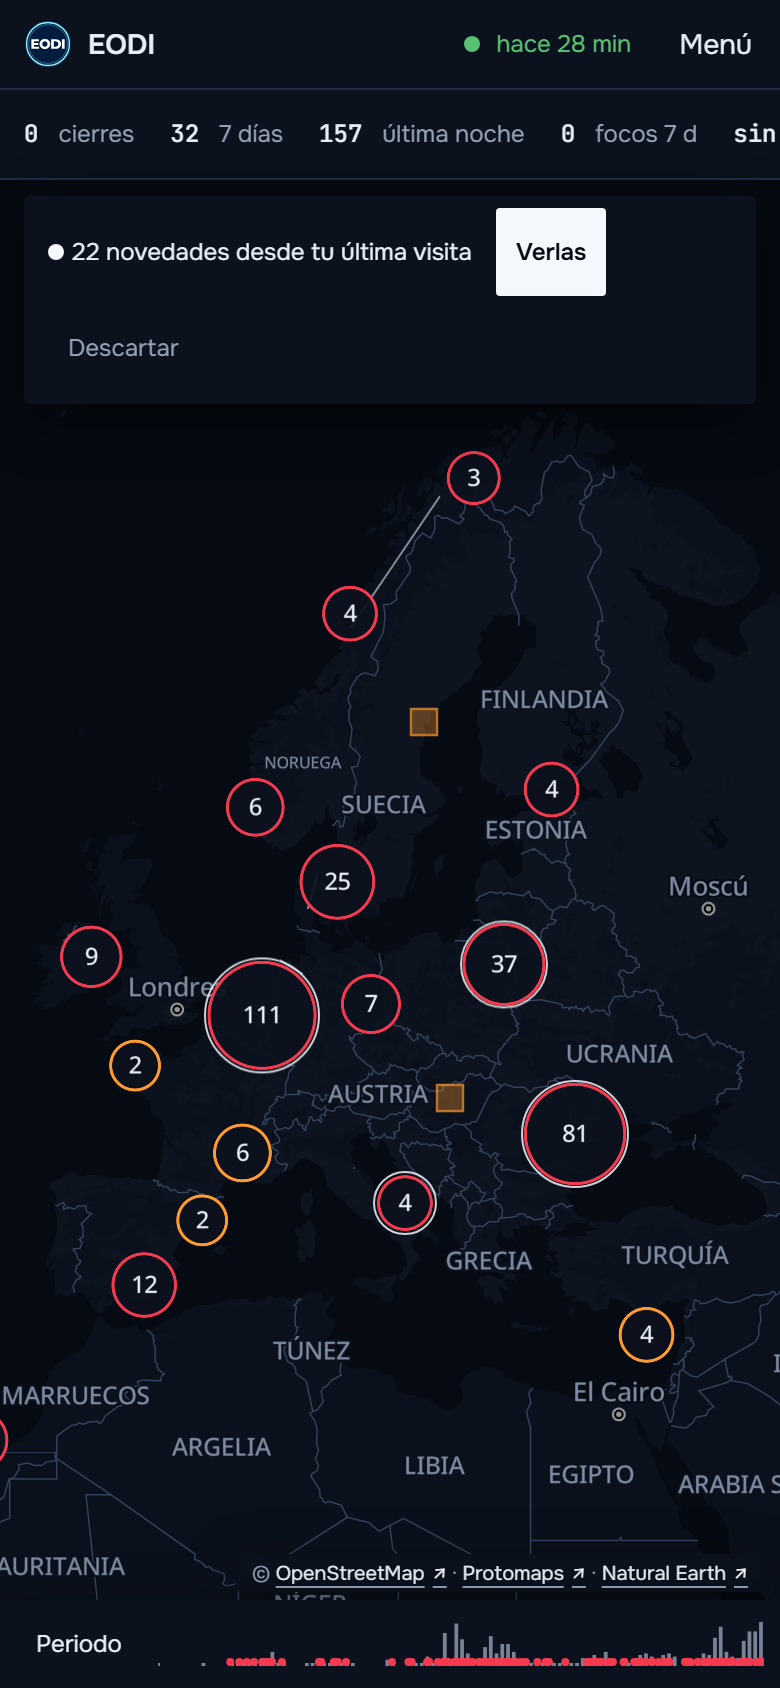
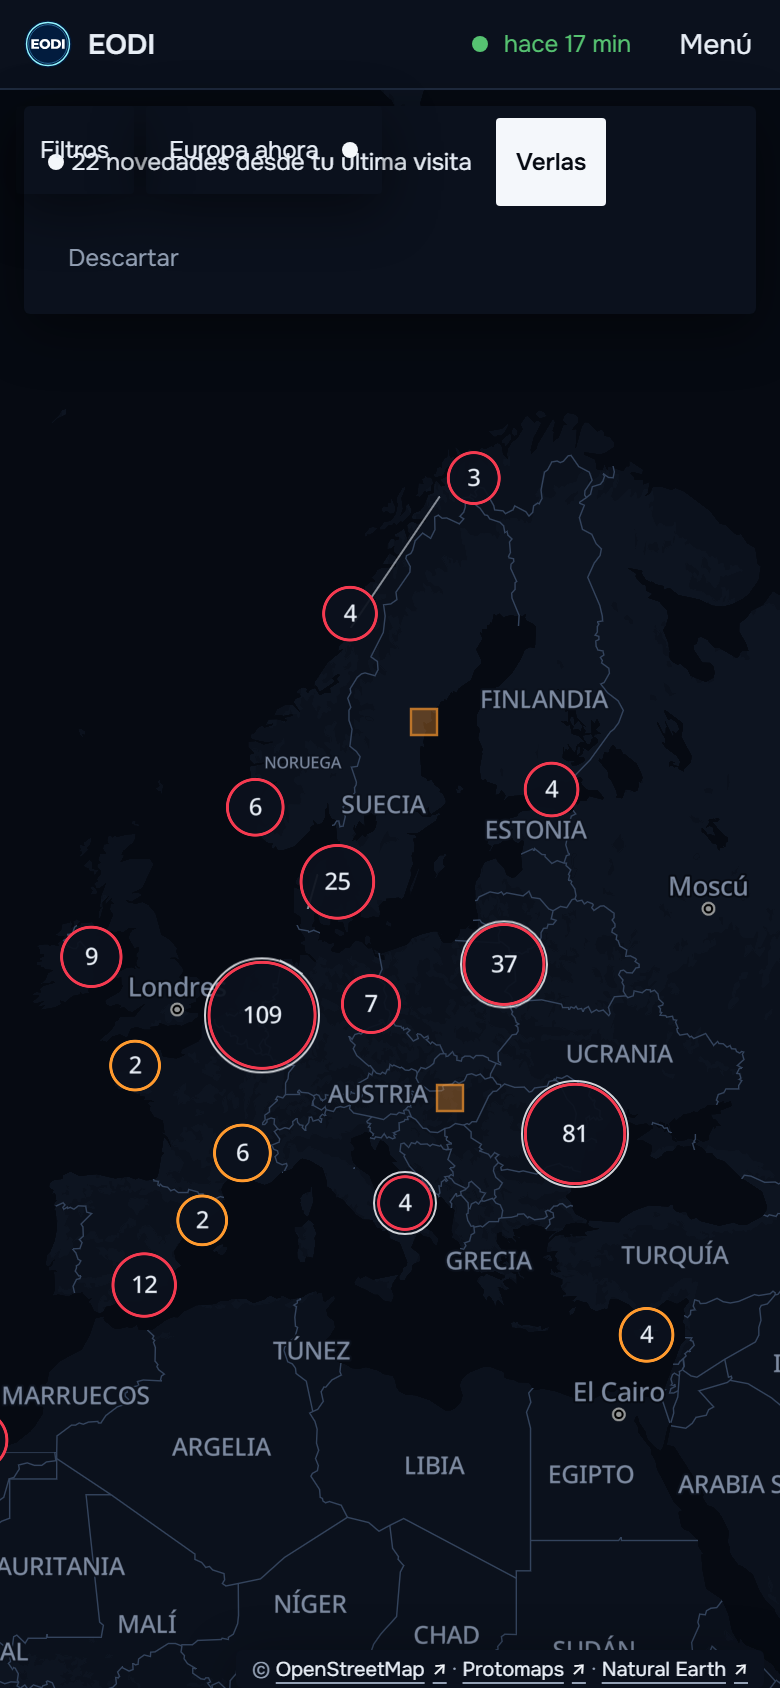
Botones del mapa con fondo y capturas de la bandera de atribuido (#73)
Los botones «Filtros» y «Europa ahora» llevan el fondo de los paneles: en el escritorio se
mezclaban con los nombres del mapa. Capturas de producción de tres atribuidos como bandera, la
leyenda y las novedades, e informe al día.

diff --git a/web/tests/botones-mapa.test.ts b/web/tests/botones-mapa.test.ts
@@ -1,0 +1,21 @@
+// Los botones sobre el mapa llevan el fondo de los paneles: sin él, «Filtros» y «Europa ahora»
+// se leían mezclados con los nombres del mapa en el escritorio.
+import { readFileSync } from "node:fs";
+import { join } from "node:path";
+
+import { describe, expect, it } from "vitest";
+
+const raiz = join(import.meta.dirname, "..", "src");
+
+describe("botones sobre el mapa", () => {
+  it("tienen fondo de panel, declarado después de .control", () => {
+    const css = readFileSync(join(raiz, "estilos.css"), "utf-8");
+    const control = css.indexOf("  .control {");
+    const boton = css.indexOf(".control.boton-mapa {");
+    expect(control).toBeGreaterThan(-1);
+    expect(boton).toBeGreaterThan(control);
+    expect(css.slice(boton, css.indexOf("}", boton))).toContain("background-color: var(--color-panel)");
+    const componente = readFileSync(join(raiz, "componentes", "BotonesMapa.tsx"), "utf-8");
+    expect(componente).toMatch(/CLASE_BOTON = "[^"]*\bboton-mapa\b/);
+  });
+});

diff --git a/web/src/estilos.css b/web/src/estilos.css
@@ -228,6 +228,12 @@
       min-width: 2.75rem !important;
     }
   }
+  /* Botones sobre el mapa: con el fondo de los paneles, para que no se mezclen con los
+     nombres del mapa (.control, que va después de .flotante, los dejaría transparentes). */
+  .control.boton-mapa {
+    background-color: var(--color-panel);
+    box-shadow: var(--shadow-panel);
+  }
   .control:hover {
     color: var(--color-texto);
     background-color: var(--color-elevado);

diff --git a/web/src/componentes/BotonesMapa.tsx b/web/src/componentes/BotonesMapa.tsx
@@ -8,7 +8,7 @@ import type { ReactNode, RefObject } from "react";
 
 import type { Textos } from "../i18n/index.ts";
 
-const CLASE_BOTON = "control flotante min-h-11 px-3 text-xs text-texto esc:min-h-8 esc:px-2.5";
+const CLASE_BOTON = "control flotante boton-mapa min-h-11 px-3 text-xs text-texto esc:min-h-8 esc:px-2.5";
 
 export function BotonFiltros({
   t,

diff --git a/docs/informe_europa_directo.md b/docs/informe_europa_directo.md
@@ -259,6 +259,10 @@ atribuido y naranja si todos son notificados. Los avisos en directo usan la mism
 (naranja posible, rojo confirmado, gris reanudado) con su propia marca de aeropuerto y sin
 pulso. El verde queda solo para los indicadores de funcionamiento de la barra de estado.
 
+**Atribuido** se dibuja como una bandera roja con su mástil, sin forma debajo: icono de 28 px
+con el pie del mástil en el punto del incidente y, en el teléfono, la marca más cercana en 44 px
+como objetivo del dedo; los grupos y los episodios unidos por línea lo tratan como al resto.
+
 **Pulso.** Solo laten los incidentes nuevos desde la última visita (los que cuenta el aviso de
 novedades) y los grupos que contienen alguno; se apagan con «Verlas», «Descartar» o al abrir el
 incidente; en la primera visita no late nada; con movimiento reducido, un anillo fijo. El pulso
@@ -270,6 +274,33 @@ token `PALETA.guerra`) muy cercano al rojo nuevo de los confirmados (1,15:1 de l
 tono): esa sesión debería moverlo a otro tono o a grises. Los impactos y sus grupos no laten,
 así que el pulso no le afecta. El cambio de nombre del token toca `src/mapa/estilo.ts`,
 `src/componentes/LineaTiempo.tsx` y `src/App.tsx`, que también edita esa sesión.
+
+## 7 ter. La pantalla es el mapa
+
+Sobre el mapa solo hay botones pequeños; lo demás se abre al pedirlo:
+
+- **Sin barra de tiempo inferior.** El periodo se elige en los filtros: últimas 24 horas, 7 días,
+  30 días, último año, todo (por defecto, como al abrir la web hasta ahora) o entre dos fechas. Con
+  un periodo distinto, el botón de filtros lo lleva escrito («Filtros · Últimos 7 días ×»; la
+  equis vuelve a todo). El mapa, la lista, las cifras y todas las capas siguen el periodo; los
+  enlaces `?ultimos=` y `?desde=…&hasta=…` lo abren, y un enlace a una ficha la abre aunque quede
+  fuera del periodo.
+- **«Europa ahora»** es un botón con desplegable (hoja inferior en el teléfono), cerrado al
+  entrar; lleva un número si hay cierres en curso y un punto si hay novedades desde la última
+  visita. Se cierra con el botón, la equis, Escape, pulsando fuera o, en el teléfono, arrastrando
+  la hoja hacia abajo; pulsar una entrada lleva a su sitio y lo cierra.
+- **Además se pliega:** la barra de filtros pasa a un botón con desplegable, el botón «Periodo»
+  de la cabecera del teléfono desaparece, y las leyendas solo salen con su capa activa y se
+  pliegan. Los botones sobre el mapa llevan el fondo de los paneles.
+
+Comprobado en producción el 3 de octubre de 2026 con `web/data/comprobar-pantalla.mjs` (escritorio
+y 390×844): 72 comprobaciones bien y 0 mal. Al entrar, el mapa llega hasta el borde inferior, sin
+ningún panel ni desplegable abierto. Las cifras de cada periodo coinciden con la lista: todo 507,
+24 horas 10, 7 días 33, 30 días 92, último año 379 y noviembre de 2025 61. Los enlaces con periodo
+y la ficha más antigua (`EODI-2024-00001`, también con `?ultimos=24h`) abren lo que deben. Con
+`web/data/capturar-estados.mjs` se comprobaron tres atribuidos en el mapa y en su ficha con el
+historial de estados (EODI-2026-00015, EODI-2026-00074 y EODI-2026-00283), la leyenda, y que
+laten 4 o 5 novedades con una visita anterior y ninguna en la primera visita.
 
 ## 8. Servidor y vigilancia
 
@@ -311,7 +342,8 @@ publicándose:
 | [`europa-escritorio-gps.png`](capturas/europa-escritorio-gps.png) | Capa de interferencia GPS del último día, con su leyenda: el rojo del Báltico, Kaliningrado, el mar Negro y el este de Turquía |
 | [`europa-escritorio-presion.png`](capturas/europa-escritorio-presion.png) | Capa de presión por país |
 | [`europa-390x844-panel.png`](capturas/europa-390x844-panel.png), [`europa-390x844-gps.png`](capturas/europa-390x844-gps.png) | Versión reducida de la franja en la cabecera del teléfono, y la capa GPS |
-| [`estados-escritorio.png`](capturas/estados-escritorio.png), [`estados-390x844.png`](capturas/estados-390x844.png) | Notificados en naranja, confirmados en rojo y atribuidos en rojo con bandera (Moldavia y Rumanía) |
+| [`estados-escritorio.png`](capturas/estados-escritorio.png), [`estados-390x844.png`](capturas/estados-390x844.png) | Notificados en naranja, confirmados en rojo y atribuidos como bandera roja (Moldavia y Rumanía) |
+| `atribuido-{1,2,3}-mapa-*.png`, `atribuido-{1,2,3}-ficha-*.png`, `leyenda-*.png` | Tres atribuidos como bandera sin forma en el mapa y en su ficha con el historial de estados, y la leyenda, en escritorio y 390×844 |
 | [`novedades-escritorio.png`](capturas/novedades-escritorio.png), [`novedades-390x844.png`](capturas/novedades-390x844.png) | Con una visita anterior de hace tres días: laten las 4 marcas con novedades |
 | [`sin-novedades-escritorio.png`](capturas/sin-novedades-escritorio.png), [`sin-novedades-390x844.png`](capturas/sin-novedades-390x844.png) | Primera visita: no late nada |
 
